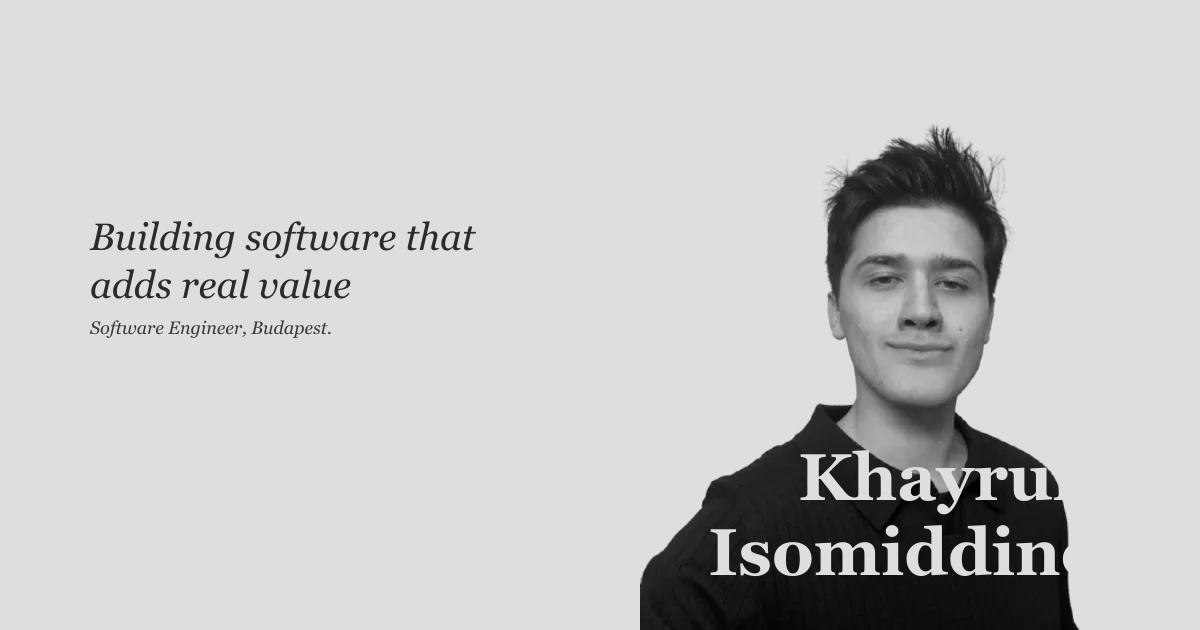
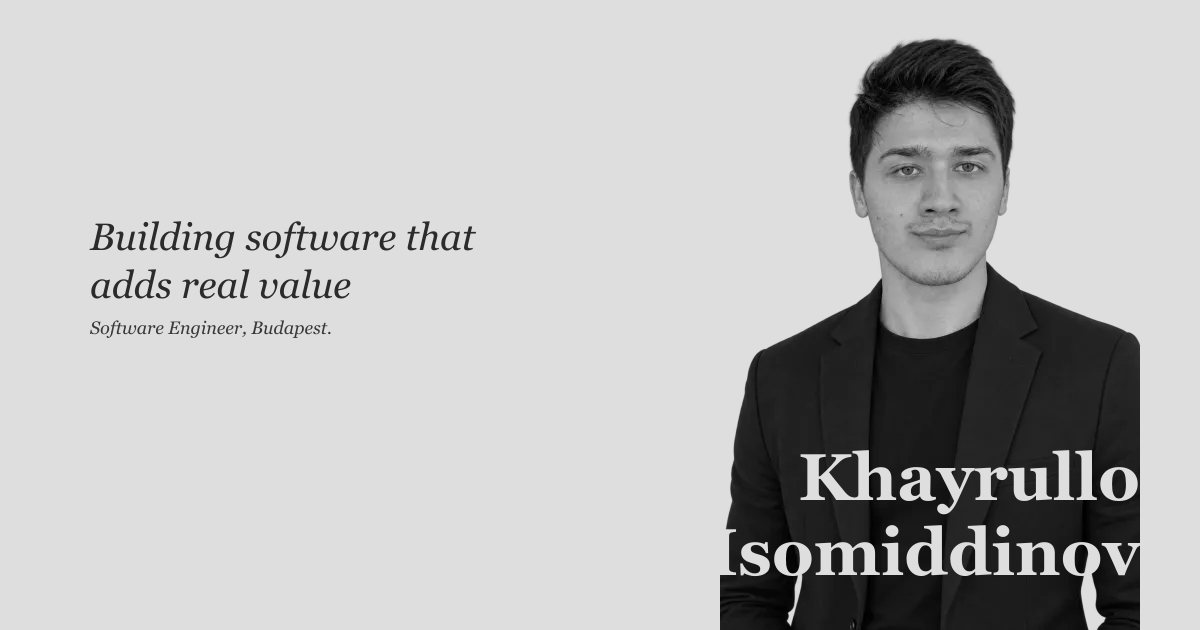
Swap portrait photo

Changed region(s): [[0.5242, 0.0603, 0.9558, 1.0], [0.6475, 0.9048, 0.6783, 0.9952]]

diff --git a/css/home.css b/css/home.css
@@ -318,7 +318,7 @@
     --hero-portrait-min-height-landscape: 450px;
     --hero-portrait-overflow-top: 42px;
     --hero-portrait-padding-inline: 70px;
-    --hero-portrait-aspect-ratio: 0.7932;
+    --hero-portrait-aspect-ratio: 0.6667;
     --hero-portrait-name-right-limit: clamp(-135px, -10.47svh, -47px);
     --hero-portrait-name-screen-margin: 40px;
     --hero-info-lang-offset: 0px;
